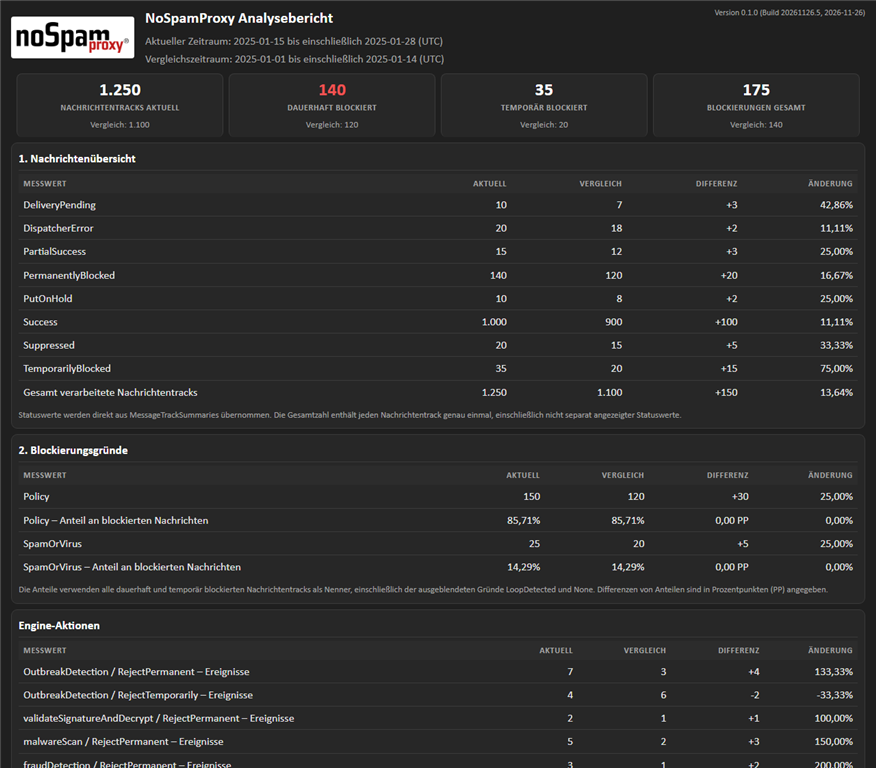
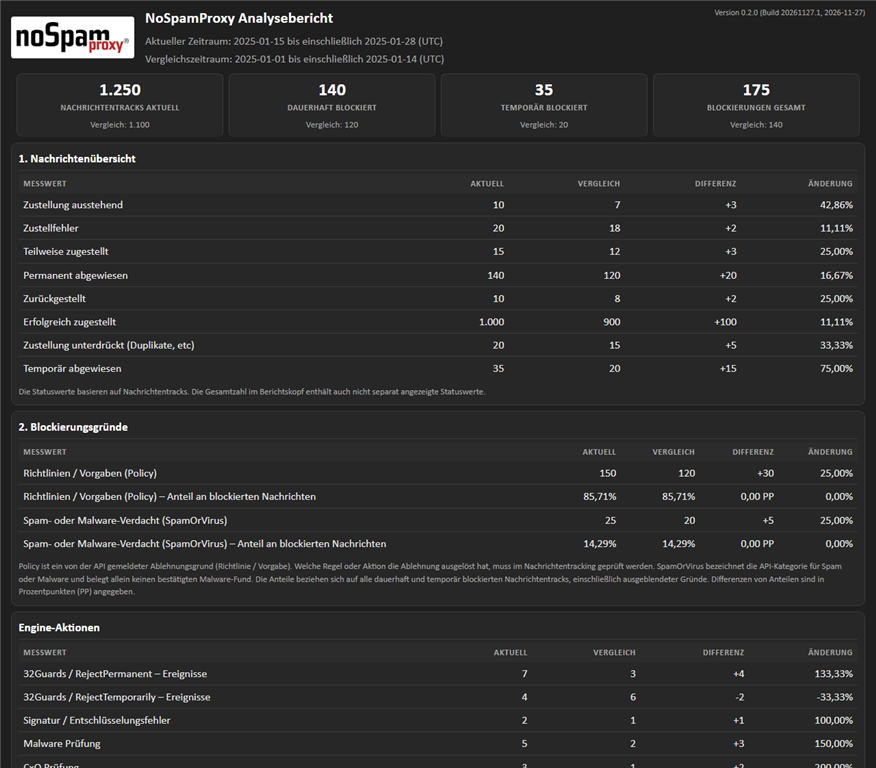
Release report design 0.2.0

diff --git a/template.html b/template.html
@@ -20,7 +20,6 @@
     .value{display:block;color:var(--blue);font-size:1.65rem;line-height:1.1;font-weight:700}
     .label{display:block;margin:3px 0;color:var(--muted);font-size:.77rem;font-weight:600;letter-spacing:.04em;text-transform:uppercase}
     .metric small{color:var(--muted)}
-    .blocked .value{color:var(--red)}
     .panel{margin:0 0 8px;padding:10px;background:var(--panel);border:1px solid var(--line);border-radius:9px}
     .panel h2{margin:0 0 5px;padding-bottom:4px;border-bottom:1px solid var(--line);color:var(--blue);font-size:1.08rem}
     .table-wrap{width:100%;overflow-x:auto}
@@ -31,10 +30,13 @@
     .num{text-align:right;font-variant-numeric:tabular-nums;white-space:nowrap;min-width:82px}
     .section td{padding-top:8px;color:var(--blue);font-weight:bold}
     .sub td:first-child{padding-left:18px}
+    .mime-details{margin-top:8px;border:1px solid var(--line);border-radius:6px}
+    .mime-details summary{padding:8px;cursor:pointer;font-weight:600;overflow-wrap:anywhere}
+    .mime-counts{color:var(--muted);font-size:.85rem;font-weight:400}
     .footnote{margin:8px 0 0;color:var(--muted);font-size:.8rem}
     @media(max-width:850px){.page{width:calc(100% - 20px);padding:8px 0}.metrics td{padding:7px 4px}.value{font-size:1.4rem}}
     @media(max-width:560px){.page{width:calc(100% - 16px);padding:6px 0}.header{align-items:flex-start;flex-wrap:wrap}.header-main{flex-wrap:wrap;gap:8px}.header h1{font-size:1.2rem}.logo{width:140px}.version{margin-left:auto}.metrics{border-spacing:3px 0}.metrics td{display:block;width:100%!important;margin-bottom:4px}.panel{padding:8px}.table-wrap table{min-width:620px}}
-    @media print{*{-webkit-print-color-adjust:exact!important;print-color-adjust:exact!important}html,body{background:#1f1f1f!important;color:#e7e7e7!important}.panel,.metric{background:#272727!important;border-color:#3b3b3b!important;box-shadow:none!important;break-inside:avoid}h1,h2,.value,.section td{color:#fff!important}th{background:#2c2c2c!important}.footnote,.period,.label,th{color:#a5a5a5!important}.blocked .value{color:#f05252!important}}
+    @media print{*{-webkit-print-color-adjust:exact!important;print-color-adjust:exact!important}html,body{background:#1f1f1f!important;color:#e7e7e7!important}.panel,.metric{background:#272727!important;border-color:#3b3b3b!important;box-shadow:none!important;break-inside:avoid}h1,h2,.value,.section td{color:#fff!important}th{background:#2c2c2c!important}.footnote,.period,.label,th{color:#a5a5a5!important}}
   </style>
 </head>
 <body>

diff --git a/CHANGELOG.md b/CHANGELOG.md
@@ -1,3 +1,15 @@
+## [0.2.0] - Build 20261127.1 - 2026-11-27
+
+### Neu
+- MIME-Typen im HTML-Bericht einzeln auf- und zuklappbar; die Details sind zunächst geschlossen und im PDF geöffnet.
+- Aktualisierte Berichtsvorschau mit ausschließlich fiktiven Beispieldaten.
+
+### Überarbeitet
+- Verständlichere Status-, Engine-, Filter-, Malware- und Recall-Bezeichnungen sowie eine Erläuterung der API-Blockierungsgründe.
+- Einheitliche Schriftfarbe für die Kennzahlen im Berichtskopf; doppelte Gesamtzahl und nicht benötigte Quarantäne- und Sandbox-Zeilen entfernt.
+- DeepFile-Werte bleiben fachlich korrekt als Analysevorgänge und Nachrichtentracks bezeichnet.
+- API-Zugang und wöchentliche Ausführung über die Windows-Aufgabenplanung sind in der README beschrieben.
+
 ## [0.1.0] - Build 20261126.5 - 2026-11-26
 
 ### Neu
